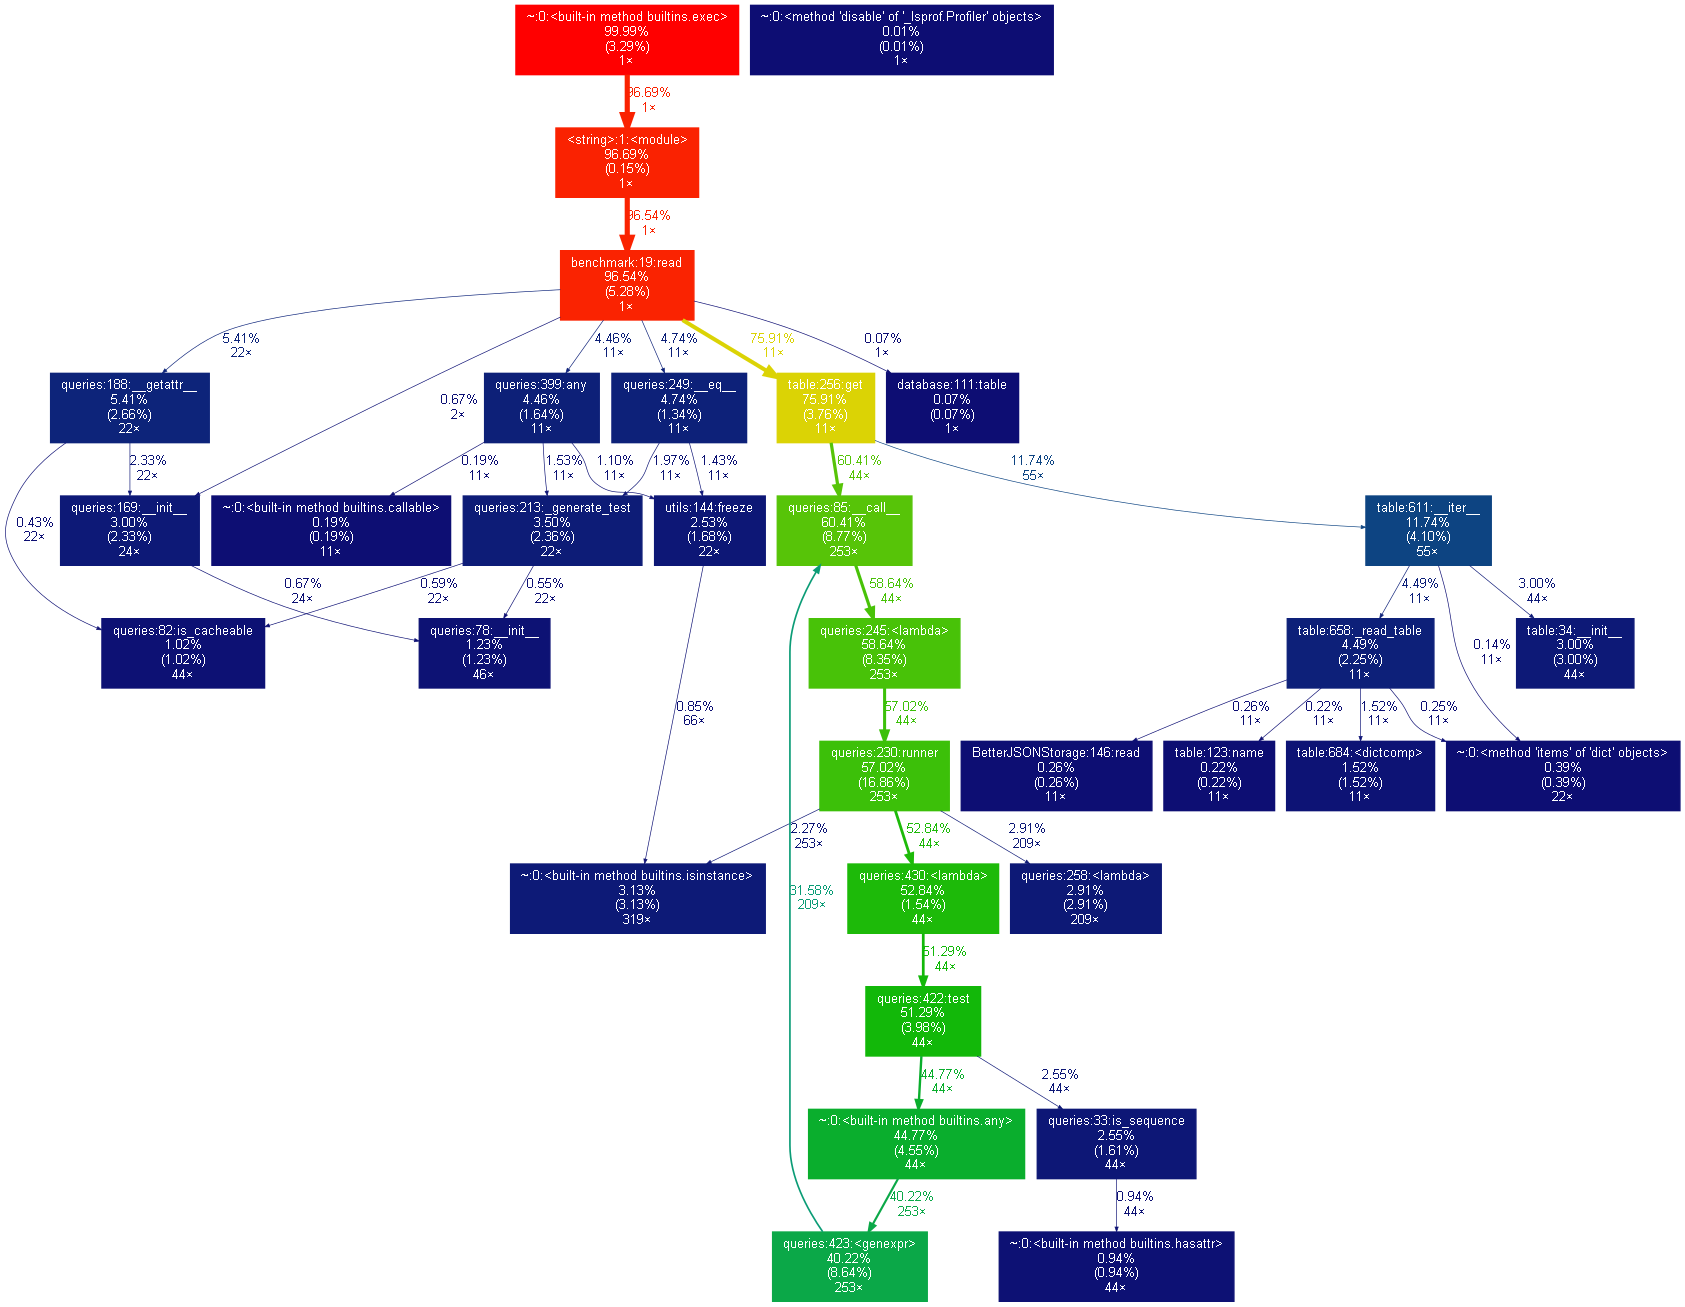
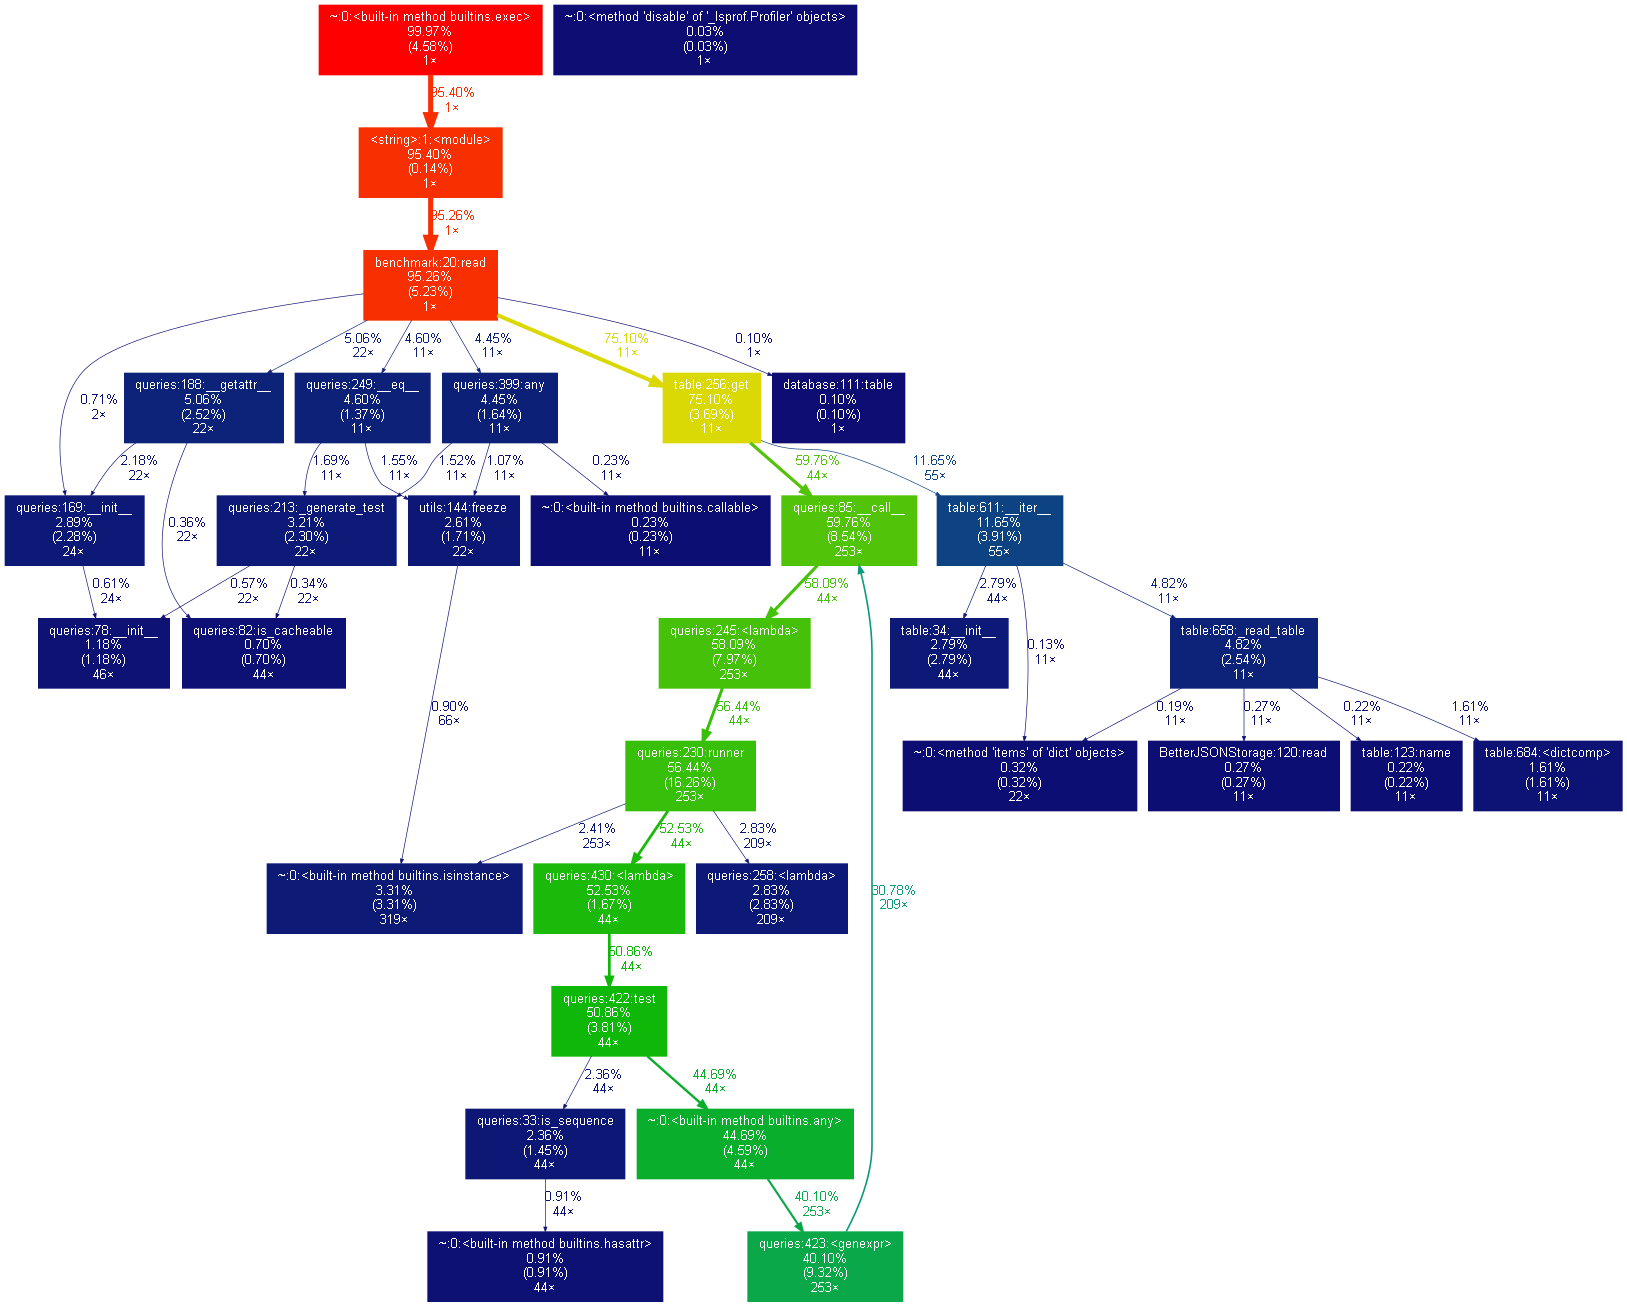
documentation fixes

Changed region(s): [[0.0, 0.0, 0.9834, 1.0]]

diff --git a/src/BetterJSONStorage/BetterJSONStorage.py b/src/BetterJSONStorage/BetterJSONStorage.py
@@ -5,56 +5,6 @@ from typing import Literal, Mapping, Optional, Set
 from blosc import compress, decompress
 from orjson import dumps, loads
 
-
-class Access_mode:
-    __slots__ = "name"
-
-    def __set_name__(self, owner, name: str):
-        self.name = f"{name}_"
-
-    def __set__(self, obj, value: str):
-        if not value in {"r", "r+"}:
-            obj.close()
-            raise AttributeError(f'access_mode is not one of ("r", "r+"), :{value}')
-        setattr(obj, self.name, value)
-
-    def __get__(self, obj, objtype=None):
-        return getattr(obj, self.name)
-
-
-class FilePath:
-    __slots__ = "name"
-
-    def __set_name__(self, _, name: str):
-        self.name = f"{name}_"
-
-    def __set__(self, obj, path: Path):
-        setattr(obj, self.name, path)
-        if not isinstance(path, Path):
-            obj.close()
-            raise TypeError("path is not an instance of pathlib.Path")
-
-        if not path.exists():
-            if obj._access_mode == "r":
-                obj.close()
-                raise FileNotFoundError(
-                    f"""File can't be found, use access_mode='r+' if you wan to create it.
-                        Path: <{path.absolute()}>,
-                        """
-                )
-            path.parent.mkdir(parents=True, exist_ok=True)
-            path.touch()
-
-        if not path.is_file():
-            obj.close()
-            raise FileNotFoundError(
-                f"""path does not lead to a file: <{path.absolute()}>."""
-            )
-
-    def __get__(self, obj, _=None):
-        return getattr(obj, self.name)
-
-
 class BetterJSONStorage:
     """
     A class that represents a storage interface for reading and writing to a file.
@@ -94,8 +44,8 @@ class BetterJSONStorage:
 
     __slots__ = (
         "_hash",
-        "_access_mode_",
-        "_path_",
+        "_access_mode",
+        "_path",
         "_handle",
         "_kwargs",
         "_changed",
@@ -104,8 +54,6 @@ class BetterJSONStorage:
     )
 
     _paths: Set[int] = set()
-    _access_mode = Access_mode()
-    _path = FilePath()
 
     def __init__(
         self, path: Path = Path(), access_mode: Literal["r", "r+"] = "r", **kwargs
@@ -115,8 +63,34 @@ class BetterJSONStorage:
         self._running = True
         self._changed = False
 
-        # descriptors
+        # checks
         self._hash = hash(path)
+
+        if not access_mode in {"r", "r+"}:
+            self.close()
+            raise AttributeError(f'access_mode is not one of ("r", "r+"), :{access_mode}')
+
+        if not isinstance(path, Path):
+            self.close()
+            raise TypeError("path is not an instance of pathlib.Path")
+
+        if not path.exists():
+            if access_mode == "r":
+                self.close()
+                raise FileNotFoundError(
+                    f"""File can't be found, use access_mode='r+' if you wan to create it.
+                        Path: <{path.absolute()}>,
+                        """
+                )
+            path.parent.mkdir(parents=True, exist_ok=True)
+            path.touch()
+
+        if not path.is_file():
+            self.close()
+            raise FileNotFoundError(
+                f"""path does not lead to a file: <{path.absolute()}>."""
+            )
+
         self._access_mode = access_mode
         self._path = path
 

diff --git a/setup.py b/setup.py
@@ -5,7 +5,7 @@ with open("README.rst", "r", encoding="utf-8") as fh:
 
 setuptools.setup(
     name="BetterJSONStorage",
-    version="1.2.1",
+    version="1.2.4",
     author="Thomas Eeckhout",
     author_email="Thomas.Eeckhout@outook.be",
     description="An optimized tinyDB storage extension",

diff --git a/README.rst b/README.rst
@@ -49,7 +49,7 @@ context Manager
 
     path = Path('relative/path/to/file.db')
 
-    with TinyDB(path, storage=BetterJSONStorage) as db:
+    with TinyDB(path, access_mode="r+", storage=BetterJSONStorage) as db:
         db.insert({'int': 1, 'char': 'a'})
         db.insert({'int': 1, 'char': 'b'})
 
@@ -60,9 +60,9 @@ context Manager
 extra
 =====
 one difference from TinyDB default JSONStorage is that BetterJSONStorage is ReadOnly by default.
-use acces_mode='r+' if you want to write as well.
+use access_mode='r+' if you want to write as well.
 
-All arguments except for the storage and acces_mode argument are forwarded to the underlying storage.
+All arguments except for the storage and access_mode argument are forwarded to the underlying storage.
 You can use this to pass additional keyword arguments to orjson.dumps(…) method.
 
 For all options see the `orjson documentation <https://github.com/ijl/orjson#option>`_.
